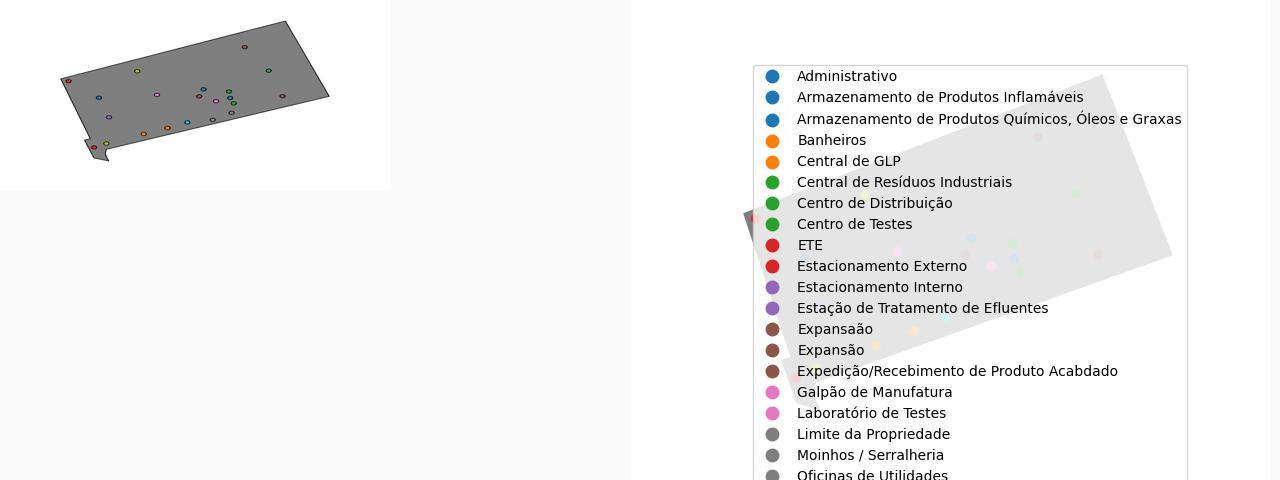
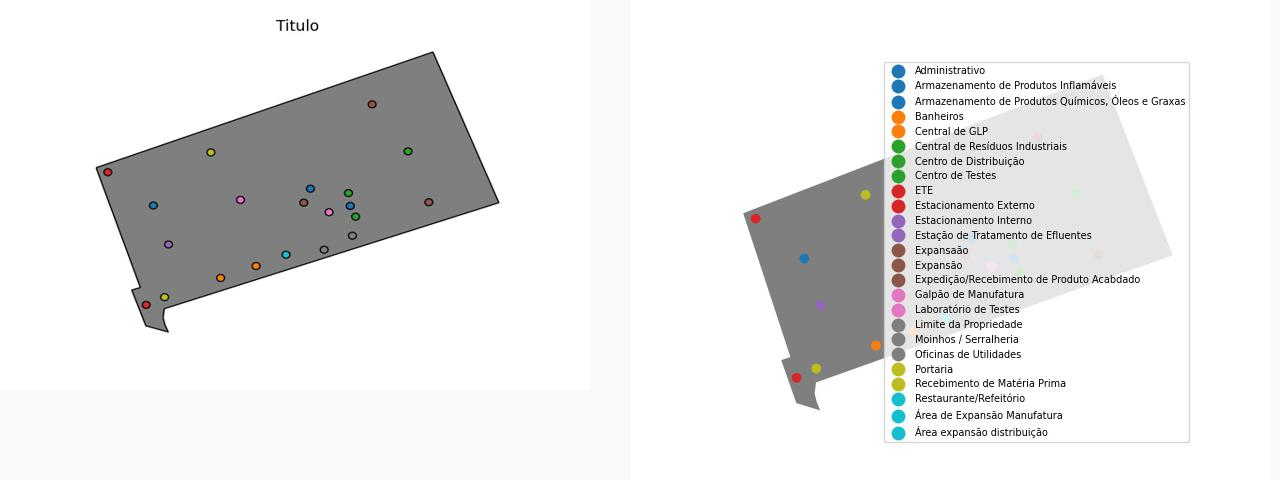
ajustes

Changed region(s): [[0.5625, 0.125, 0.9375, 1.0], [0.0312, 0.0312, 0.4062, 0.6875]]

diff --git a/geopandas_teste.py b/geopandas_teste.py
@@ -1,22 +1,27 @@
 import geopandas as gpd
 import matplotlib.pyplot as plt
 from PIL import Image
+import numpy as np
 gpd.io.file.fiona.drvsupport.supported_drivers['KML'] = 'rw'
 
  
 #Leitura do arquivo kml
 fp = "./files/417-86-11687-19052021.kml"
 polys = gpd.read_file(fp, driver='KML')
-
+#print(polys)
 #Plota o mapa
-polys.plot("Name", facecolor="white", edgecolor="black")
+fig = polys.plot("Name", facecolor="white", edgecolor="black")
 plt.axis('off')
+fig.set_title("Titulo")
 plt.savefig('./files/mapa.jpg')
 
 #Plota a legenda
-polys.plot("Name",legend=True)
+plt.rcParams.update({'font.size': 7})
+ 
+plt.box(False)
+ax = polys.plot("Name",legend=True,label='_nolegend_')
 plt.axis('off') 
-
+plt.rcParams.update({'font.size': 10})
 
 plt.savefig('./files/legenda.jpg')
 
@@ -25,7 +30,7 @@ plt.savefig('./files/legenda.jpg')
 image1 = Image.open('./files/mapa.jpg')
 image2 = Image.open('./files/legenda.jpg')
 #Ajuste de tamanho das imagens
-image1 = image1.resize((400, 200))
+image1 = image1.resize((600, 400))
 
 image1_size = image1.size
 image2_size = image2.size

diff --git a/kml_to_img.py b/kml_to_img.py
@@ -1,19 +1,25 @@
 import geopandas as gpd
 import matplotlib.pyplot as plt
+from PIL import Image
+import numpy as np
+from matplotlib.font_manager import FontProperties
+from mpl_toolkits.axes_grid1 import make_axes_locatable
 gpd.io.file.fiona.drvsupport.supported_drivers['KML'] = 'rw'
 
  
-# Filepath to KML file
+# #Leitura do arquivo kml
 fp = "./files/417-86-11687-19052021.kml"
-
 polys = gpd.read_file(fp, driver='KML')
 
+plt.tight_layout()
+plt.rcParams.update({'font.size': 6}) 
+ 
+#lg = plt.legend(list(polys["Name"]),bbox_to_anchor=(1.05, 1.0), loc='upper left')
 
 
-polys.plot("Name")
+fig = polys.plot("Name",legend=True, figsize=(12, 5),facecolor="white", edgecolor="black",cmap="tab20",legend_kwds={'bbox_to_anchor': (1, 1)}) 
 
-plt.savefig('./files/test.jpg')
 
-polys.plot("Name",legend=True)
 
-plt.savefig('./files/test2.jpg')
+plt.axis('off') 
+plt.savefig('./files/legenda.jpg')
